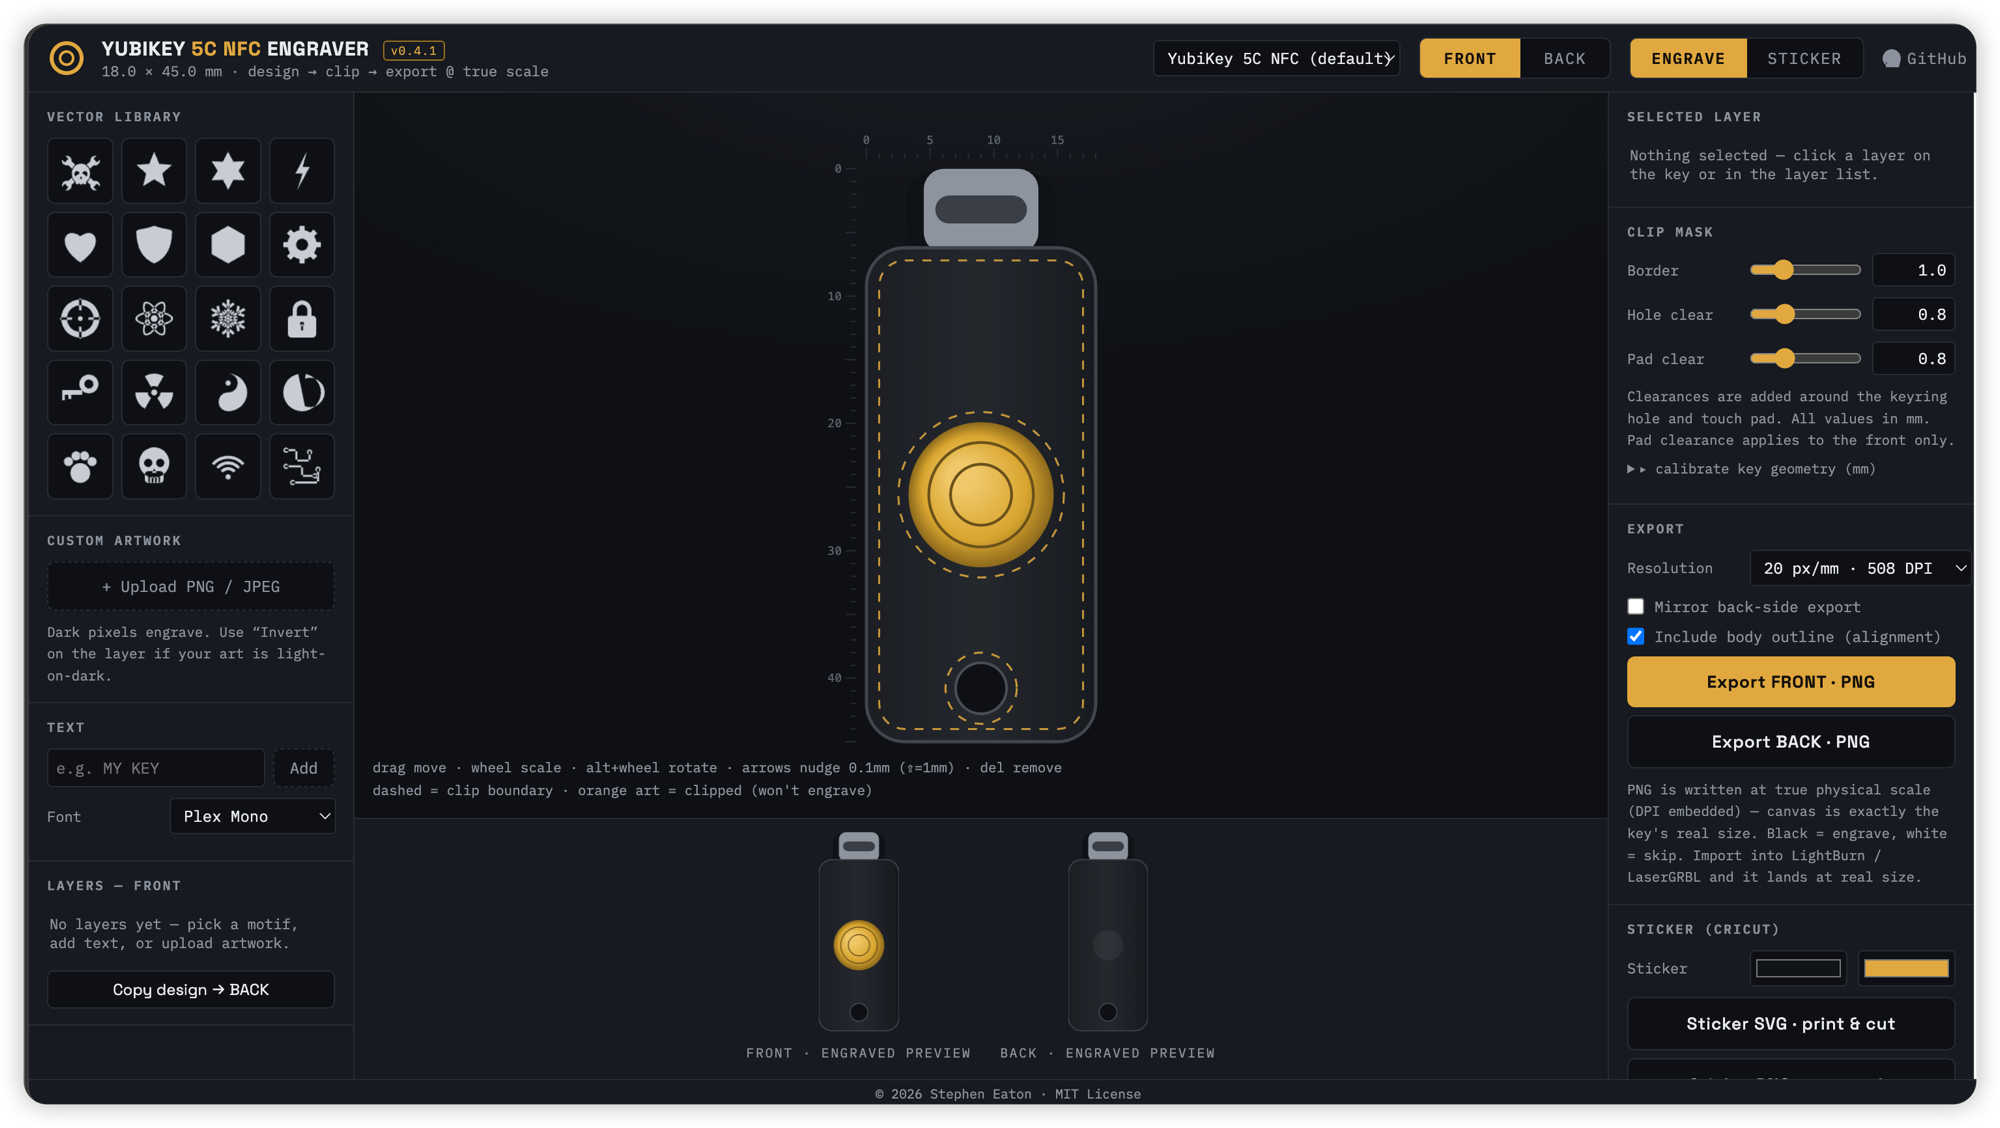
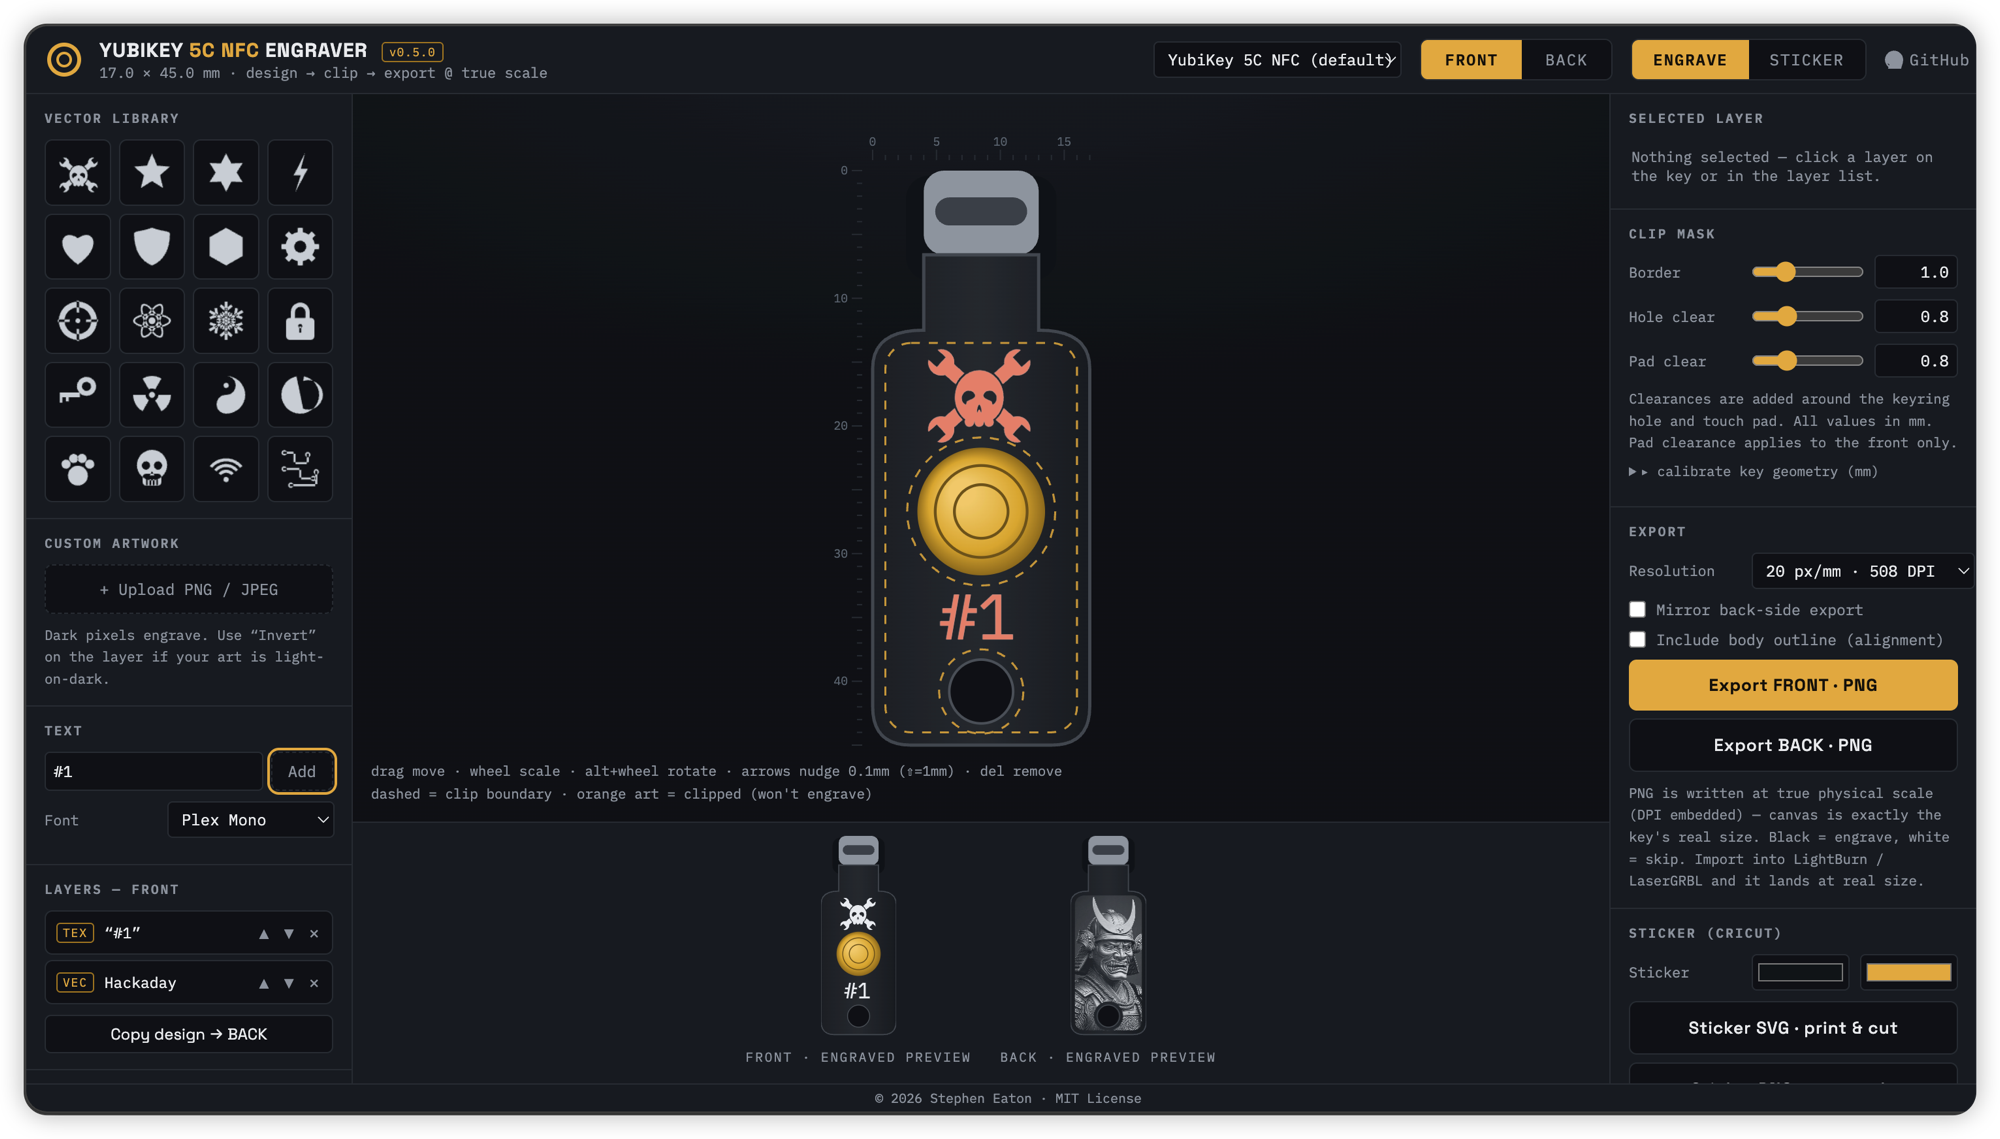
Release v0.5.0 — version single-source + README screenshot
- Version 0.4.1 -> 0.5.0, now single-sourced in const VERSION (header
  badge + footer are JS-filled on boot; head comment points to the const).
- README hero screenshot refreshed.
- CHANGELOG: [0.5.0] entry.

diff --git a/yubikey-engraver.html b/yubikey-engraver.html
@@ -1,7 +1,7 @@
 <!DOCTYPE html>
 <!--
   YubiKey 5C NFC Engraving Designer
-  Version: 0.4.1
+  Version: single source — const VERSION (displayed via JS on load)
   Author: Stephen Eaton
   Single-file local web app. Open directly in a browser (no server needed).
 
@@ -144,7 +144,7 @@
   <header>
     <div class="logo" aria-hidden="true"></div>
     <div>
-      <h1>YUBIKEY <span id="modelName">5C NFC</span> ENGRAVER <span class="hdver" id="hdver">v0.4.1</span></h1>
+      <h1>YUBIKEY <span id="modelName">5C NFC</span> ENGRAVER <span class="hdver" id="hdver"></span></h1>
       <div class="sub" id="dims">18.0 × 45.0 mm · design → clip → export @ true scale</div>
     </div>
     <div class="spacer"></div>
@@ -270,7 +270,7 @@
       </div>
       <input type="file" id="projFile" accept="application/json" hidden>
       <a class="ghLinkInline" href="https://github.com/madeinoz67/yubikey-engraver" target="_blank" rel="noopener noreferrer"><svg viewBox="0 0 24 24"><path d="M12 .297c-6.63 0-12 5.373-12 12 0 5.303 3.438 9.8 8.205 11.385.6.113.82-.258.82-.577 0-.285-.01-1.04-.015-2.04-3.338.724-4.042-1.61-4.042-1.61C4.422 18.07 3.633 17.7 3.633 17.7c-1.087-.744.084-.729.084-.729 1.205.084 1.838 1.236 1.838 1.236 1.07 1.835 2.809 1.305 3.495.998.108-.776.417-1.305.76-1.605-2.665.3-5.466 1.332-5.466 5.93 0 1.31.465 2.38 1.235 3.22-.135.303-.54 1.523.105 3.176 0 0 1.005.322 3.3 1.23.96-.267 1.98-.399 3-.405 1.02.006 2.04.138 3 .405 2.28-1.552 3.285-1.23 3.285-1.23.645 1.653.24 2.873.12 3.176.765.84 1.23 1.91 1.23 3.22 0 4.61-2.805 5.625-5.475 5.92.42.36.81 1.096.81 2.22 0 1.606-.015 2.896-.015 3.286 0 .315.21.69.825.57C20.565 22.092 24 17.592 24 12.297c0-6.627-5.373-12-12-12"/></svg>View on GitHub ↗</a>
-      <p class="note">Author: Stephen Eaton · v<span id="ver">0.4.1</span></p>
+      <p class="note">Author: Stephen Eaton · v<span id="ver"></span></p>
     </div>
   </aside>
   <footer class="copyright">© 2026 Stephen Eaton · MIT License</footer>
@@ -282,7 +282,7 @@
    Author: Stephen Eaton
    ===================================================================== */
 'use strict';
-const VERSION='0.4.1';
+const VERSION='0.5.0';
 
 /* ---------- model catalogue (mm). Origin = top-left of W×H bounding box,
    connector at the top, keyring hole (if any) at the bottom.

diff --git a/CHANGELOG.md b/CHANGELOG.md
@@ -6,6 +6,21 @@ following [Semantic Versioning](https://semver.org/).
 
 ## [Unreleased]
 
+## [0.5.0] — 2026-07-23
+
+Correct key geometry to true measurements; transparent export background.
+
+### Changed
+- Key models (5c-nfc, 5-nfc, sk-c-nfc, bio-c): width 18->17 mm, body
+  38.8->32.5 mm, keyring hole 4->5 mm; NFC-model touchpad 11.4->10 mm.
+  Measured from the actual key (STEP model + front/back SVG contours).
+  Compact 5c unchanged.
+- Editor: key body renders the SVG-contour silhouette (connector tongue +
+  concave fillets) — connector meets the body with no gap.
+- Export: body outline off by default.
+- Export: clipped area (keyring hole / touchpad / outside body) now
+  transparent; white skip-background only inside the engrave mask.
+
 ## [0.4.1] — 2026-07-22
 
 UI polish.